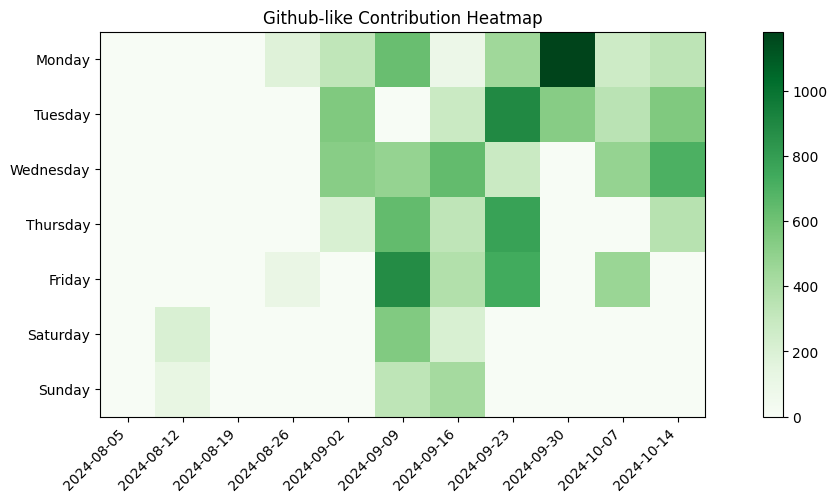
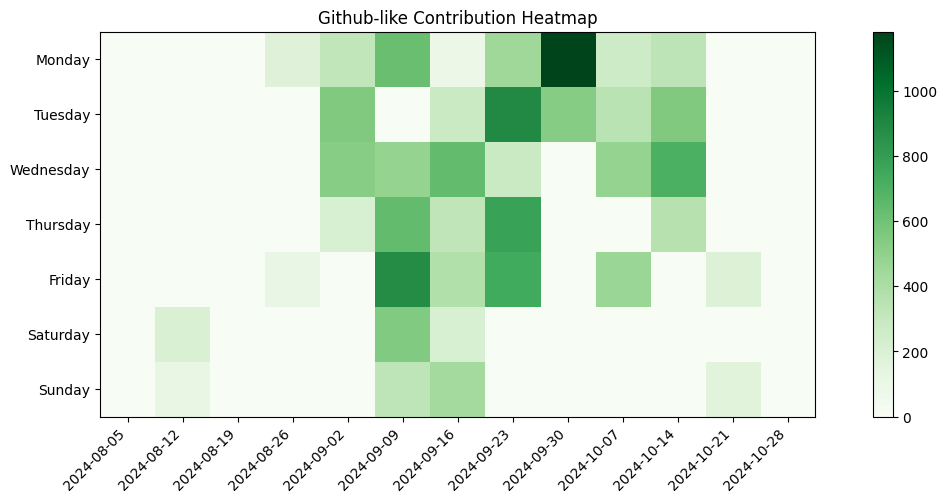
Update

diff --git a/README.md b/README.md
@@ -36,4 +36,6 @@
 20241015 182.36 (6.93-0.64)*29   139.51 (4.97-1.49)*40   229.85 (6.76-1.15)*41
 20241016 298.56 (6.93-0.44)*46   405.52 (6.92-0.48)*63
 20241017 228.31 (6.86-0.69)*37   130.78 (7.11-0.22)*19
+20241025 184.65 (4.71-1.35)*55
+20241027 162.86 (4.84-1.14)*44
 ```
